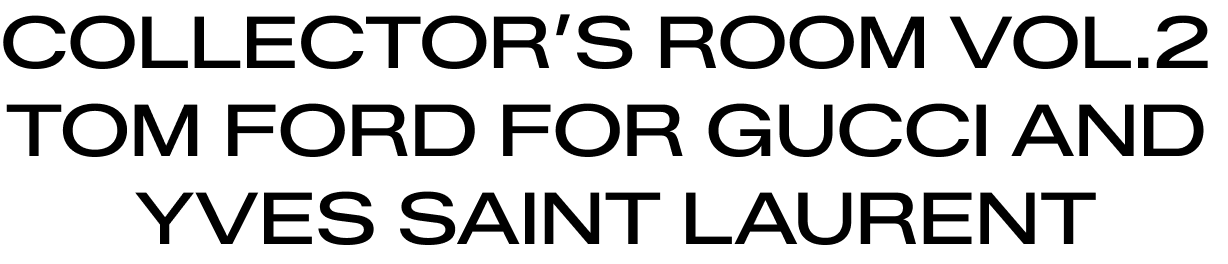
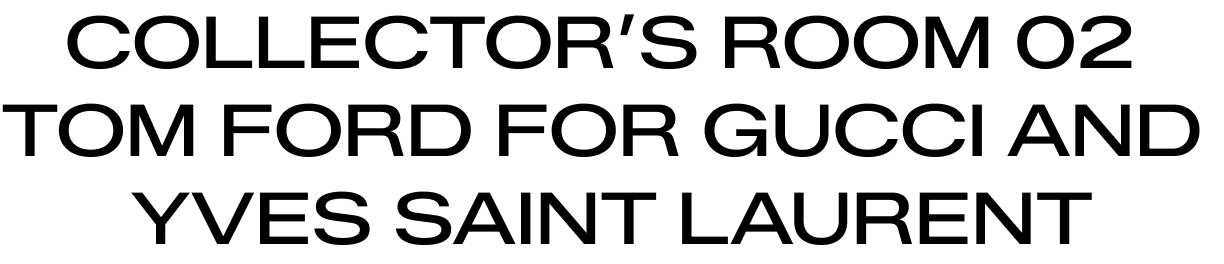
feat(booking): 新增预约到访人数字段及相关功能
- 预约请求体新增必填字段 visitorCount，校验非空且最小值为1
- 活动信息响应新增 maxVisitorCount，作为单次预约到访人数上限，默认值为5
- 超出 maxVisitorCount 时返回后端错误提示
- 小程序端新增到访人数步进器组件，支持选择到访人数
- 提交预约时携带 visitorCount 参数，后端接口和前端数据结构同步更新
- 查询预约详情、列表响应中新增 visitorCount 字段展示
- 云托管环境下自动注入微信身份请求头 X-WX-OPENID，无需前端传递 openid
- 修改项目描述、页面标题等显示文本为小写形式 collector's room 02
- 增加相关单元测试覆盖新增功能和边界校验
- 优化预约页面交互体验，支持选择和关闭到访人数下拉选项，提交期间禁止操作

diff --git a/services/booking-page.js b/services/booking-page.js
@@ -51,6 +51,7 @@ const definition = {
     mainScrollTop: 0,
     activity: {},
     venueAddress: venue.address,
+    visitorCount: 1, visitorCountSelected: false, showVisitorOptions: false, visitorOptions: [],
     name: '',
     phone: '',
     dateValue: '',
@@ -161,7 +162,7 @@ const definition = {
 
   updateNavigationTitle() {
     const title = this.data.view === 'success' ? '预约详情' : this.data.view === 'bookings' ? '我的预约'
-      : (this.data.activity.name || this.data.activity.nameEn || 'Collector’s Room Vol.2')
+      : (this.data.activity.name || this.data.activity.nameEn || "collector's room 02")
     wx.setNavigationBarTitle({ title })
   },
 
@@ -362,7 +363,7 @@ const definition = {
     this.currentScrollTop = 0
     this.formScrollTop = 0
     this.setData({
-      name: '', phone: '', dateValue: '', dateText: '', selectedTime: '', selectedSlotId: '',
+      visitorCount: 1, visitorCountSelected: false, showVisitorOptions: false, name: '', phone: '', dateValue: '', dateText: '', selectedTime: '', selectedSlotId: '',
       draftDateValue: '', draftSlotId: '', consented: false, timeSlots: [],
       dateError: '', slotError: '', bookingLookupError: '', isLoadingDates: false, isLoadingSlots: false,
       mainScrollTop: 0, showPolicy: false, policyContent: '', policyIsRichText: false
@@ -516,11 +517,28 @@ const definition = {
     this.setData({ showPolicy: false })
   },
 
+  toggleVisitorOptions() {
+    if (this.data.isSubmitting) return
+    this.setData({ showVisitorOptions: !this.data.showVisitorOptions,
+      visitorOptions: Array.from({ length: this.data.activity.maxVisitorCount || 5 }, (_, index) => index + 1) })
+  },
+
+  closeVisitorOptions() {
+    this.setData({ showVisitorOptions: false })
+  },
+
+  selectVisitorCount(event) {
+    if (this.data.isSubmitting) return
+    const count = Number(event.currentTarget.dataset.count)
+    if (!Number.isInteger(count) || count < 1 || count > (this.data.activity.maxVisitorCount || 5)) return
+    this.setData({ visitorCount: count, visitorCountSelected: true, showVisitorOptions: false })
+  },
+
   async submitReservation() {
     if (this.data.isSubmitting) return
     if (this.data.isCheckingBooking || this.data.bookingLookupError) return this.toast('请先确认预约状态')
     if (this.data.consented !== true) return this.toast('请阅读并同意隐私说明')
-    const { name, phone, dateValue, selectedSlotId } = this.data
+    const { name, phone, dateValue, selectedSlotId, visitorCount } = this.data
     const current = getApp().globalData.reservation
     if (current && current.canCancel) {
       this.applyReservation(current)
@@ -530,6 +548,7 @@ const definition = {
     }
     if (!name.trim()) return this.toast('请填写姓名')
     if (!/^1\d{10}$/.test(phone.trim())) return this.toast('请填写正确的手机号码')
+    if (!Number.isInteger(visitorCount) || visitorCount < 1 || visitorCount > (this.data.activity.maxVisitorCount || 5)) return this.toast('请选择有效的到访人数')
     if (!dateValue) return this.toast('请选择日期')
     if (selectedSlotId === '' || selectedSlotId === null || selectedSlotId === undefined) return this.toast('请选择时间')
     this.setData({ isSubmitting: true })
@@ -543,10 +562,10 @@ const definition = {
       }
       const cleanName = name.trim()
       const cleanPhone = phone.trim()
-      const id = await api.createBooking({ name: cleanName, phone: cleanPhone, date: dateValue, slotId: slot.id })
+      const id = await api.createBooking({ name: cleanName, phone: cleanPhone, visitorCount, date: dateValue, slotId: slot.id })
       if (id === null || id === undefined || id === '') throw new Error('预约服务未返回预约编号，请查询我的预约确认结果')
       // 创建成功即锁定当前预约，详情查询失败不能让用户重复提交。
-      const reservation = api.normalizeBooking({ id, userName: cleanName, userPhone: cleanPhone, bookingDate: dateValue, slotStartTime: slot.value.split('-')[0], slotEndTime: slot.value.split('-')[1], status: 0 })
+      const reservation = api.normalizeBooking({ id, userName: cleanName, userPhone: cleanPhone, visitorCount, bookingDate: dateValue, slotStartTime: slot.value.split('-')[0], slotEndTime: slot.value.split('-')[1], status: 0 })
       if (this.destroyed) return
       this.applyReservation(reservation)
       this.clearReservationForm()

diff --git a/tests/integration.test.js b/tests/integration.test.js
@@ -831,7 +831,7 @@ test('submit sends documented required fields and opens the list, while double t
   await settlePages()
   const creates = calls.filter((options) => options.path.endsWith('/create'))
   assert.equal(creates.length, 1)
-  assert.deepEqual(creates[0].data, { name: '测试预约', phone: '13800138000', date: '2099-12-20', slotId: slots[0].id })
+  assert.deepEqual(creates[0].data, { name: '测试预约', phone: '13800138000', visitorCount: 1, date: '2099-12-20', slotId: slots[0].id })
   assert.equal(activePage().data.view, 'bookings')
   assert.equal(activePage().data.bookings[0].bookingNo, booking.bookingNo)
   assert.equal(calls.some(options => options.path.includes('/booking/get?')), false)
@@ -1497,4 +1497,20 @@ test('every template event handler exists and WXML tags are balanced', () => {
     }
     assert.deepEqual(stack, [])
   }
+})
+
+test('visitor dropdown uses configured choices, selects and closes, and locks during submission', () => {
+  const instance = readyForm()
+  instance.setData({ activity: { ...instance.data.activity, maxVisitorCount: 3 } })
+  instance.toggleVisitorOptions()
+  assert.deepEqual(instance.data.visitorOptions, [1, 2, 3])
+  assert.equal(instance.data.showVisitorOptions, true)
+  instance.selectVisitorCount(event({ count: 4 }))
+  assert.equal(instance.data.showVisitorOptions, true)
+  instance.selectVisitorCount(event({ count: 2 }))
+  assert.equal(instance.data.visitorCount, 2)
+  assert.equal(instance.data.showVisitorOptions, false)
+  instance.setData({ isSubmitting: true })
+  instance.selectVisitorCount(event({ count: 1 }))
+  assert.equal(instance.data.visitorCount, 2)
 })

diff --git a/services/tf.js b/services/tf.js
@@ -64,6 +64,11 @@ async function getActivity() {
   }
   return {
     ...record,
+    titleUrl: '/assets/title.png',
+    name: "collector's room 02",
+    nameEn: "collector's room 02",
+    privacyPolicy: typeof record.privacyPolicy === 'string' ? record.privacyPolicy.replace(/collector[’']s room (?:vol\.?\s*2|2\.0)/gi, "collector's room 02") : record.privacyPolicy,
+    maxVisitorCount: Number.isInteger(record.maxVisitorCount) && record.maxVisitorCount > 0 ? record.maxVisitorCount : 5,
     wechat: typeof record.wechat === 'string' ? record.wechat.trim() : '',
     redbook: typeof record.redbook === 'string' ? record.redbook.trim() : '',
     email: typeof record.email === 'string' ? record.email.trim() : '',

diff --git a/移动端接口清单.md b/移动端接口清单.md
@@ -3,6 +3,13 @@
 > 生成日期：2026-10-26　后端项目：`yudao-boot-mini-master`（仅保留 infra / system / tf 三个业务模块）
 > 小程序前端：`D:\project\yudao-mini\yudao-ui-admin-uniapp-master\src\pages\tf\*`（构建目标 mp-weixin）
 
+## 更新记录
+
+| 日期 | 更新内容 |
+|---|---|
+| 2026-10-29 | ⭐ 预约新增「到访人数」字段：提交预约请求体新增必填 `visitorCount`（`@NotNull` + `@Min(1)`）；查询预约 / 有效预约 / 预约列表响应均新增 `visitorCount` |
+| 2026-10-29 | ⭐ 活动信息响应新增 `maxVisitorCount`（单次预约到访人数上限，管理端「活动信息」可配置，未配置默认 5）；`visitorCount` 超过该上限时后端报错「单次预约到访人数最多 {} 人」 |
+
 ## 一、通用约定
 
 ### 1. 前缀机制
@@ -16,6 +23,8 @@ TF 模块全部接口标注 `@PermitAll`，**免登录**。防刷手段：
 - 提交/取消预约：`@RateLimiter` 按客户端 IP 限流（每分钟 10 次）
 - 提交预约：手机号 + 日期 + 时段 唯一键防重复提交
 - 查询/取消：需回传预约人手机号，后端校验一致性
+
+**微信身份头（云托管）**：生产部署在微信云托管时，小程序请求经云托管网关会自动注入身份请求头 `X-WX-OPENID`（前端 Network/代码中不可见）。`get-by-openid`、`create` 两个接口优先从该头读取 openid，请求参数/请求体中的 openid 仅作本地调试回退。需在云托管控制台开启「微信登录」开关才会注入该头。
 
 ### 3. 预约唯一性规则（2026-10-26 新增）
 
@@ -56,6 +65,7 @@ TF 模块全部接口标注 `@PermitAll`，**免登录**。防刷手段：
 | coverUrl / exhibitUrl / successUrl / boothMapUrl | String | 海报图 / 现场图 / 成功页背景图 / 展位地图 |
 | startDate / endDate | LocalDate | 活动起止日期 |
 | openTime / closeTime | LocalTime | 每日开放/关闭时间 |
+| maxVisitorCount | Integer | ⭐ 2026-10-29 新增：单次预约到访人数上限（管理端可配置，未配置默认 5） |
 | address / intro / notice / privacyPolicy | String | 地点 / 介绍 / 预约须知 / 隐私政策 |
 | wechat / redbook / email | String | 联系方式：微信 / 小红书 / 邮箱 |
 
@@ -99,7 +109,7 @@ TF 模块全部接口标注 `@PermitAll`，**免登录**。防刷手段：
 |---|---|
 | 接口 | `POST /app-api/tf/booking/create` |
 | 鉴权 | `@PermitAll` 免登录；IP 限流 10 次/分钟 |
-| 使用页面 | 时段选择页提交 |
+| 使用页面 | 主页（预约表单）提交 |
 
 请求体（`AppBookingCreateReqVO`）：
 
@@ -107,9 +117,10 @@ TF 模块全部接口标注 `@PermitAll`，**免登录**。防刷手段：
 |---|---|---|---|
 | name | String | ✅ | 预约人姓名（`@NotEmpty`） |
 | phone | String | ✅ | 手机号（正则 `^1\d{10}$`） |
+| visitorCount | Integer | ✅ | ⭐ 2026-10-29 新增：到访人数（`@NotNull` + `@Min(1)`；上限为活动配置 `maxVisitorCount`，默认 5，超限报错「单次预约到访人数最多 {} 人」；小程序端步进器按同上限限制） |
 | date | LocalDate | ✅ | 预约日期 `yyyy-MM-dd` |
 | slotId | Long | ✅ | 时段编号（来自 slot-list 的 id） |
-| openid | String | ❌ | 微信 openid（可选携带） |
+| openid | String | ❌ | 微信 openid（云托管下由请求头 `X-WX-OPENID` 自动注入，前端无需传；本地调试无该头时可显式传） |
 
 响应：`Long` —— 预约记录 id（用于成功页回显）。
 
@@ -129,6 +140,7 @@ TF 模块全部接口标注 `@PermitAll`，**免登录**。防刷手段：
 | id | Long | 编号 |
 | bookingNo | String | 预约编号（如 TF1751100000000001） |
 | userName / userPhone / openid | String | 姓名 / 手机号 / openid |
+| visitorCount | Integer | ⭐ 2026-10-29 新增：到访人数 |
 | bookingDate | LocalDate | 预约日期 |
 | slotStartTime / slotEndTime | LocalTime | 时段起止 |
 | status | Integer | 0 已预约 / 1 已取消 / 2 已核销 |
@@ -140,7 +152,7 @@ TF 模块全部接口标注 `@PermitAll`，**免登录**。防刷手段：
 |---|---|
 | 接口 | `GET /app-api/tf/booking/get-by-openid?openid=oXXXX-xxxx` |
 | 鉴权 | `@PermitAll` 免登录 |
-| 参数 | `openid`（String，必填，微信 openid） |
+| 参数 | `openid`（String，可选——云托管下由请求头 `X-WX-OPENID` 自动注入，优先采用；本地调试无该头时需显式传） |
 | 使用页面 | 加载页（`pages/tf/index`） |
 
 响应：`AppBookingRespVO`（字段同「查询预约」）——仅返回**有效预约**（状态=已预约、未取消、预约日期未过期）；无有效预约时 `data` 为 `null`，前端进入主页。
@@ -199,10 +211,10 @@ TF 模块全部接口标注 `@PermitAll`，**免登录**。防刷手段：
 
 | 小程序页面 | 调用的接口 |
 |---|---|
-| `pages/tf/index`（加载页） | `GET /tf/booking/get-by-openid`（`uni.login` → `code2session` 微信接口换 openid 后查询有效预约） |
-| `pages/tf/home`（主页） | `GET /tf/activity/get` |
+| `pages/tf/index`（加载页） | `GET /tf/booking/get-by-openid`（云托管下后端从 `X-WX-OPENID` 头直接取 openid，前端无需传；本地调试仍走 `uni.login` → `code2session` 换 openid 后传参查询有效预约） |
+| `pages/tf/home`（主页） | `GET /tf/activity/get`、`POST /tf/booking/create`（提交预约） |
 | `pages/tf/date`（日期选择） | `GET /tf/booking/month-status` |
-| `pages/tf/time`（时段选择） | `GET /tf/booking/slot-list`、`POST /tf/booking/create` |
+| `pages/tf/time`（时段选择） | `GET /tf/booking/slot-list` |
 | `pages/tf/success`（成功页） | `GET /tf/booking/get`、`POST /tf/booking/cancel` |
 | `pages/tf/my-booking`（我的预约） | `GET /tf/booking/list-by-phone`、`POST /tf/booking/cancel` |
 

diff --git a/README.md b/README.md
@@ -1,4 +1,4 @@
-# Collector’s Room Vol.2 预约小程序
+# collector's room 02 预约小程序
 
 原生微信小程序，通过 `wx.cloud.callContainer` 访问微信云托管 TF 服务。活动信息、日历状态、时段、预约创建、详情、列表及取消均来自后端接口。
 
